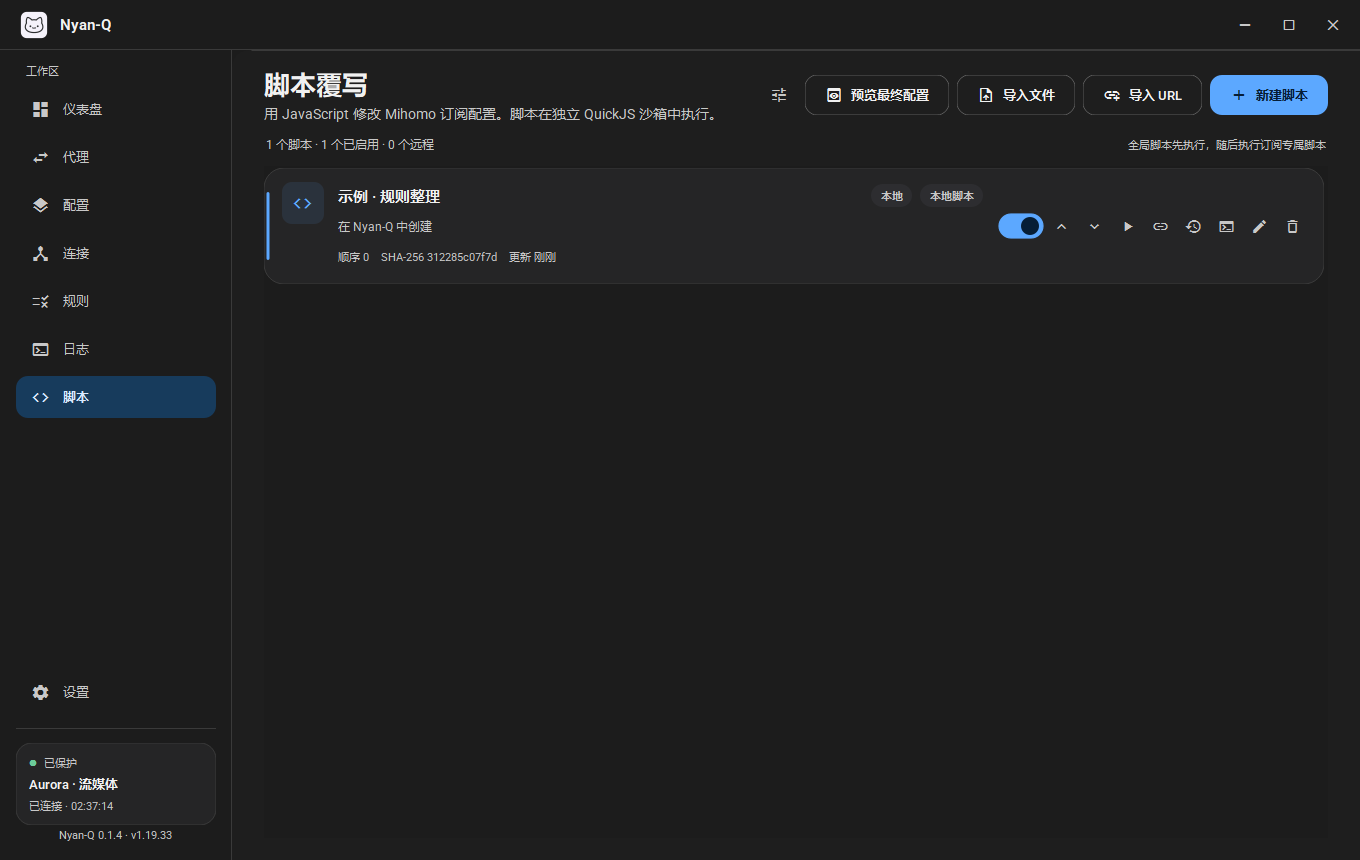
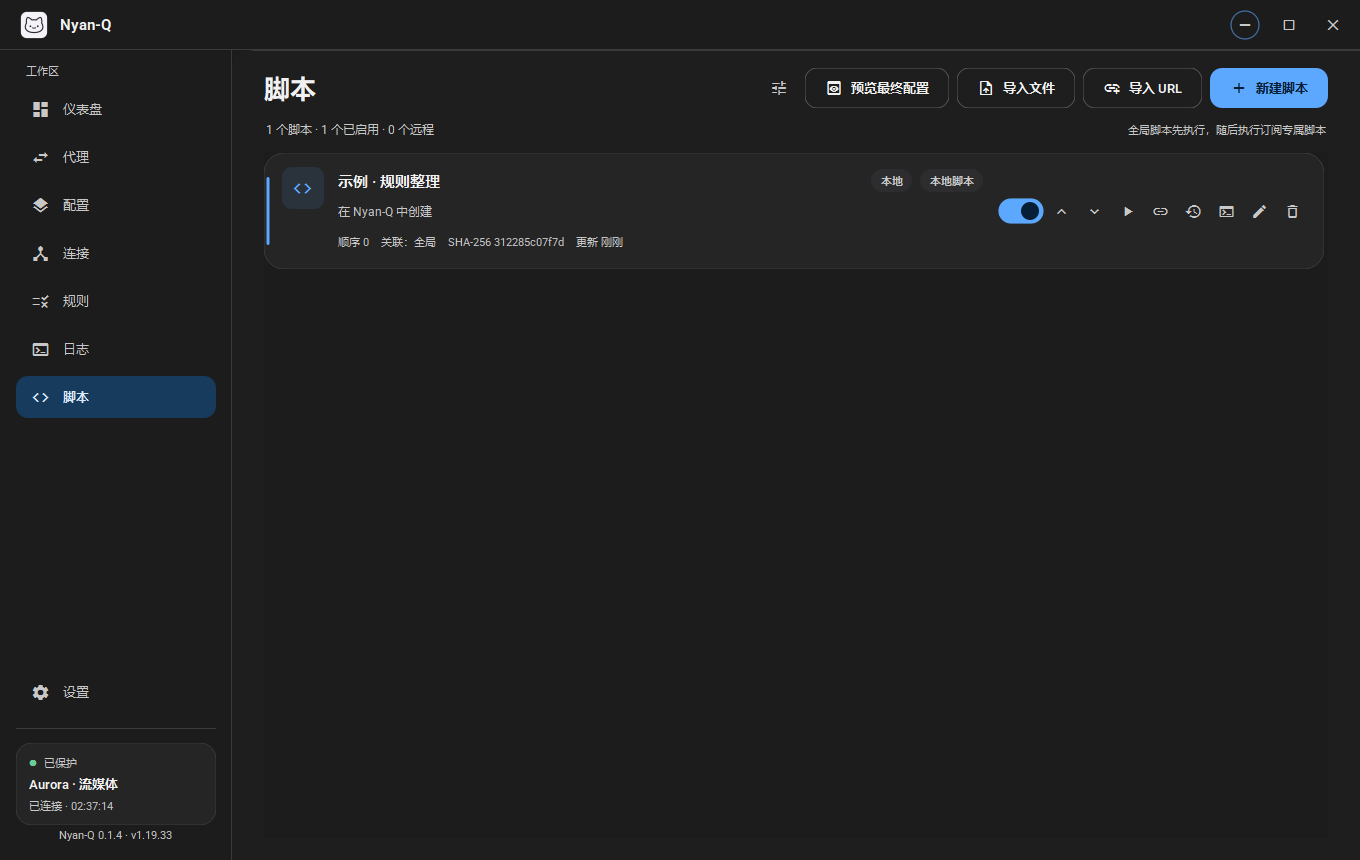
feat: create profile-scoped scripts from profile cards

diff --git a/src/ui/pages/ScriptsPage.cpp b/src/ui/pages/ScriptsPage.cpp
@@ -45,10 +45,7 @@ void ScriptsPage::buildUi()
     listRoot->setContentsMargins(32, 18, 32, 22);
     listRoot->setSpacing(14);
 
-    m_header = new PageHeader(QStringLiteral("脚本覆写"),
-                              QStringLiteral("用 JavaScript 修改 Mihomo 订阅配置。"
-                                             "脚本在独立 QuickJS 沙箱中执行。"),
-                              m_listPage);
+    m_header = new PageHeader(QStringLiteral("脚本"), {}, m_listPage);
     m_busyPill = new M3Pill(QStringLiteral("正在检查更新"), m_listPage);
     m_busyPill->setTone(M3Pill::Tone::Warning);
     m_busyPill->setDot(true);
@@ -187,6 +184,42 @@ void ScriptsPage::rebuild()
                          return QString::localeAwareCompare(a.name, b.name) < 0;
                      });
 
+    const QVector<cq::ProfileMeta> profiles = m_controller->profileStore()->profiles();
+    const ScriptBindingManager& bindings = m_controller->scriptManager()->bindings();
+    const auto associationFor = [&](const ScriptMeta& script) {
+        if (bindings.isGlobalEnabled(script.id)) {
+            QStringList excluded;
+            for (const cq::ProfileMeta& profile : profiles) {
+                if (bindings.isProfileExcluded(script.id, profile.id))
+                    excluded.append(profile.name);
+            }
+            return qMakePair(QStringLiteral("关联：全局"),
+                             excluded.isEmpty()
+                                 ? QStringLiteral("全局脚本，适用于所有配置")
+                                 : QStringLiteral("全局脚本；排除：%1")
+                                       .arg(excluded.join(QStringLiteral("、"))));
+        }
+
+        QStringList names;
+        for (const cq::ProfileMeta& profile : profiles) {
+            if (bindings.isEffective(script.id, profile.id))
+                names.append(profile.name);
+        }
+        if (names.isEmpty()) {
+            return qMakePair(QStringLiteral("关联：未关联"),
+                             QStringLiteral("当前脚本不会在任何配置上执行"));
+        }
+        QString label;
+        if (names.size() > 2) {
+            label = QStringLiteral("关联：%1、%2 等 %3 个")
+                        .arg(names.at(0), names.at(1))
+                        .arg(names.size());
+        } else {
+            label = QStringLiteral("关联：%1").arg(names.join(QStringLiteral("、")));
+        }
+        return qMakePair(label, names.join(QStringLiteral("、")));
+    };
+
     int enabled = 0;
     int remote = 0;
     for (const ScriptMeta& script : scripts) {
@@ -195,6 +228,8 @@ void ScriptsPage::rebuild()
         if (script.remote())
             ++remote;
         auto* card = new ScriptCard(script, m_content);
+        const auto association = associationFor(script);
+        card->setAssociationText(association.first, association.second);
         connect(card, &ScriptCard::editRequested, this, &ScriptsPage::openEditor);
         connect(card, &ScriptCard::deleteRequested, this, &ScriptsPage::deleteScript);
         connect(card, &ScriptCard::bindingsRequested, this, &ScriptsPage::openBindings);
@@ -283,6 +318,41 @@ void ScriptsPage::createScript()
     if (id.isEmpty()) {
         setFeedback(error, true);
         return;
+    }
+    rebuild();
+    openEditor(id);
+}
+
+void ScriptsPage::createScriptForProfile(const QString& profileId)
+{
+    const auto profile = m_controller->profileStore()->find(profileId);
+    if (!profile) {
+        setFeedback(QStringLiteral("找不到这个配置"), true);
+        return;
+    }
+
+    ScriptNameDialog nameDialog(window(), QStringLiteral("%1 · 脚本").arg(profile->name));
+    if (nameDialog.exec() != QDialog::Accepted)
+        return;
+
+    ScriptManager* manager = m_controller->scriptManager();
+    QString error;
+    const QString id = manager->createLocalScript(
+        nameDialog.scriptName(), QStringLiteral("由配置「%1」创建").arg(profile->name),
+        QString(), &error);
+    if (id.isEmpty()) {
+        setFeedback(error, true);
+        return;
+    }
+
+    // Scripts created from a profile card are strongly scoped to that profile:
+    // they never run for other subscriptions unless the user later changes the
+    // binding explicitly.
+    if (!manager->setGlobalBinding(id, false, &error) ||
+        !manager->setProfileBinding(id, profile->id, true, &error)) {
+        setFeedback(error, true);
+    } else {
+        setFeedback(QStringLiteral("已为「%1」创建专属脚本").arg(profile->name), false);
     }
     rebuild();
     openEditor(id);

diff --git a/src/ui/dialogs/ScriptDialogs.cpp b/src/ui/dialogs/ScriptDialogs.cpp
@@ -155,7 +155,7 @@ void ScriptUrlDialog::tryAccept()
     accept();
 }
 
-ScriptNameDialog::ScriptNameDialog(QWidget* parent)
+ScriptNameDialog::ScriptNameDialog(QWidget* parent, const QString& initialName)
     : MaterialDialog(parent, QStringLiteral("新建 JavaScript 脚本"),
                      QStringLiteral("脚本会先保存到本机，随后可以编辑、测试和关联订阅。"))
 {
@@ -164,6 +164,7 @@ ScriptNameDialog::ScriptNameDialog(QWidget* parent)
     m_name = new QLineEdit(this);
     m_name->setPlaceholderText(QStringLiteral("例如：统一 DNS 与规则"));
     m_name->setMaxLength(80);
+    m_name->setText(initialName);
     contentLayout()->addWidget(m_name);
 
     auto* cancel = new M3Button(QStringLiteral("取消"), M3Button::Variant::Text, this);
@@ -184,6 +185,8 @@ ScriptNameDialog::ScriptNameDialog(QWidget* parent)
             accept();
     });
     m_name->setFocus();
+    if (!initialName.isEmpty())
+        m_name->selectAll();
 }
 
 QString ScriptNameDialog::scriptName() const

diff --git a/src/ui/widgets/ScriptCard.cpp b/src/ui/widgets/ScriptCard.cpp
@@ -100,6 +100,9 @@ ScriptCard::ScriptCard(const ScriptMeta& script, QWidget* parent)
     auto* order = new QLabel(QStringLiteral("顺序 %1").arg(script.order), this);
     order->setProperty("role", "micro");
     metaRow->addWidget(order);
+    m_association = new QLabel(this);
+    m_association->setProperty("role", "micro");
+    metaRow->addWidget(m_association);
     auto* hash = new QLabel(
         QStringLiteral("SHA-256 %1").arg(script.clientSha256.left(12)), this);
     hash->setProperty("role", "micro");
@@ -216,6 +219,15 @@ ScriptCard::ScriptCard(const ScriptMeta& script, QWidget* parent)
     actions->addWidget(remove);
 
     root->addLayout(actions, 0);
+}
+
+void ScriptCard::setAssociationText(const QString& text, const QString& tooltip)
+{
+    if (!m_association)
+        return;
+    m_association->setText(text);
+    m_association->setToolTip(tooltip.isEmpty() ? text : tooltip);
+    m_association->setVisible(!text.isEmpty());
 }
 
 void ScriptCard::paintEvent(QPaintEvent* event)

diff --git a/src/ui/MainWindow.cpp b/src/ui/MainWindow.cpp
@@ -233,6 +233,12 @@ void MainWindow::buildUi()
     connect(m_proxies, &ProxiesPage::navigateRequested, this, &MainWindow::setCurrentPage);
     connect(m_profiles, &ProfilesPage::editConfigRequested, this,
             &MainWindow::openConfigEditor);
+    connect(m_profiles, &ProfilesPage::createScriptRequested, this,
+            [this](const QString& profileId) {
+                setCurrentPage(6);
+                if (m_scriptsPage)
+                    m_scriptsPage->createScriptForProfile(profileId);
+            });
     connect(m_titleBar, &TitleBar::minimizeRequested, this, &QWidget::showMinimized);
     connect(m_titleBar, &TitleBar::maximizeRequested, this, &MainWindow::toggleMaximize);
     connect(m_titleBar, &TitleBar::closeRequested, this, &QWidget::close);

diff --git a/src/ui/widgets/ProfileCard.cpp b/src/ui/widgets/ProfileCard.cpp
@@ -153,6 +153,14 @@ ProfileCard::ProfileCard(const cq::ProfileMeta& profile, QWidget* parent)
         actions->addWidget(update);
     }
 
+    auto* createScript = new M3Button(QStringLiteral("创建脚本"), M3Button::Variant::Tonal, this);
+    createScript->setIconText(QStringLiteral("code"));
+    createScript->setCompact(true);
+    createScript->setToolTip(QStringLiteral("为这个配置创建专属 JavaScript 覆写脚本"));
+    connect(createScript, &QAbstractButton::clicked, this,
+            [this] { emit createScriptRequested(m_profile.id); });
+    actions->addWidget(createScript, 0, Qt::AlignVCenter);
+
     auto* edit = new M3IconButton(QStringLiteral("edit"), this);
     edit->setDiameter(32);
     edit->setGlyphSize(17);

diff --git a/src/ui/widgets/ScriptCard.h b/src/ui/widgets/ScriptCard.h
@@ -3,11 +3,15 @@
 #include "scripts/ScriptTypes.h"
 #include "ui/widgets/MaterialWidgets.h"
 
+class QLabel;
+
 class ScriptCard : public M3Card {
     Q_OBJECT
 
 public:
     explicit ScriptCard(const nq::scripts::ScriptMeta& script, QWidget* parent = nullptr);
+
+    void setAssociationText(const QString& text, const QString& tooltip = {});
 
 signals:
     void editRequested(const QString& id);
@@ -25,4 +29,5 @@ protected:
 
 private:
     nq::scripts::ScriptMeta m_script;
+    QLabel* m_association = nullptr;
 };

diff --git a/src/ui/pages/ProfilesPage.cpp b/src/ui/pages/ProfilesPage.cpp
@@ -185,6 +185,8 @@ void ProfilesPage::rebuild()
         connect(card, &ProfileCard::editRequested, this, [this, profile](const QString&) {
             editProfile(profile);
         });
+        connect(card, &ProfileCard::createScriptRequested, this,
+                [this](const QString& id) { emit createScriptRequested(id); });
         connect(card, &ProfileCard::deleteRequested, this, [this, profile] {
             requestDelete(profile);
         });

diff --git a/src/ui/dialogs/ScriptDialogs.h b/src/ui/dialogs/ScriptDialogs.h
@@ -49,7 +49,7 @@ class ScriptNameDialog final : public MaterialDialog {
     Q_OBJECT
 
 public:
-    explicit ScriptNameDialog(QWidget* parent = nullptr);
+    explicit ScriptNameDialog(QWidget* parent = nullptr, const QString& initialName = {});
 
     QString scriptName() const;
 

diff --git a/src/ui/widgets/ProfileCard.h b/src/ui/widgets/ProfileCard.h
@@ -14,6 +14,7 @@ signals:
     void updateRequested(const QString& id);
     void editRequested(const QString& id);
     void deleteRequested(const QString& id);
+    void createScriptRequested(const QString& id);
 
 protected:
     void paintEvent(QPaintEvent* event) override;

diff --git a/src/ui/pages/ScriptsPage.h b/src/ui/pages/ScriptsPage.h
@@ -20,6 +20,7 @@ public:
 
     void refresh();
     void openScriptEditor(const QString& id) { openEditor(id); }
+    void createScriptForProfile(const QString& profileId);
 
 private:
     void buildUi();

diff --git a/src/ui/pages/ProfilesPage.h b/src/ui/pages/ProfilesPage.h
@@ -23,6 +23,7 @@ public:
 
 signals:
     void editConfigRequested(const QString& profileId);
+    void createScriptRequested(const QString& profileId);
 
 private:
     void buildUi();
